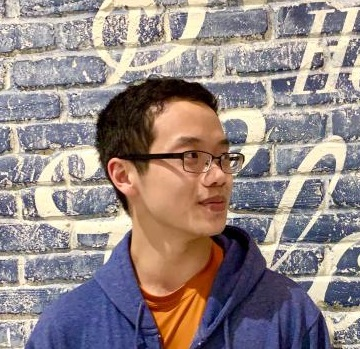
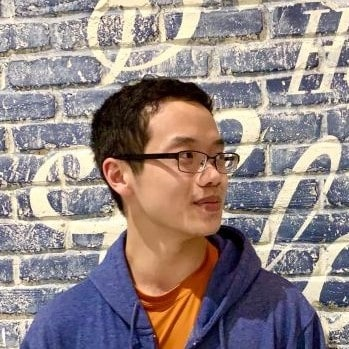
profile responsive issues

diff --git a/src/pages/profile/_utils/ProfilePicture.js b/src/pages/profile/_utils/ProfilePicture.js
@@ -8,12 +8,20 @@ const useStyles = makeStyles((theme) => ({
 		height: theme.spacing(12),
 		marginTop: 15,
 		marginBottom: 15,
-		margin: 'auto'
+		margin: 'auto',
+		"@media (max-width: 576px)": {
+			width: theme.spacing(9),
+			height: theme.spacing(9)
+		}
 	},
 	selection: {
 		width: theme.spacing(10),
 		height: theme.spacing(10),
-		marginBottom: 15
+		marginBottom: 15,
+		"@media (max-width: 576px)": {
+			width: theme.spacing(8),
+			height: theme.spacing(8)
+		}
 	}
 }));
 

diff --git a/src/pages/profile/Profile.css b/src/pages/profile/Profile.css
@@ -83,6 +83,7 @@
 .prof-name {
 	margin-bottom: 25px;
 	font-weight: bold;
+	font-size: 100%;
 }
 
 .update-date {
@@ -175,7 +176,7 @@
 	color: white;
 	transition: 0.2s all ease;
 	transform: scale(1.15);
-}
+} 
 
 .review-buttons:focus {
 	outline: none;
@@ -201,4 +202,10 @@
 	display: flex;
 	flex-direction: row;
 	justify-content: space-evenly;
+}
+
+@media (max-width: 576px) {
+	.profile-name{
+		font-size: 250%;
+	}
 }

diff --git a/src/pages/profile/review-list/ReviewList.js b/src/pages/profile/review-list/ReviewList.js
@@ -17,8 +17,6 @@ class ReviewList extends React.Component {
         })
 
         const updatedReviews = userReviews.slice().sort((a, b) => b.date - a.date)
-        console.log(updatedReviews)
-		console.log(props.reviewList)
 		this.state = {
 			reviewList: userReviews,
 			reviewsFiltered: updatedReviews,
